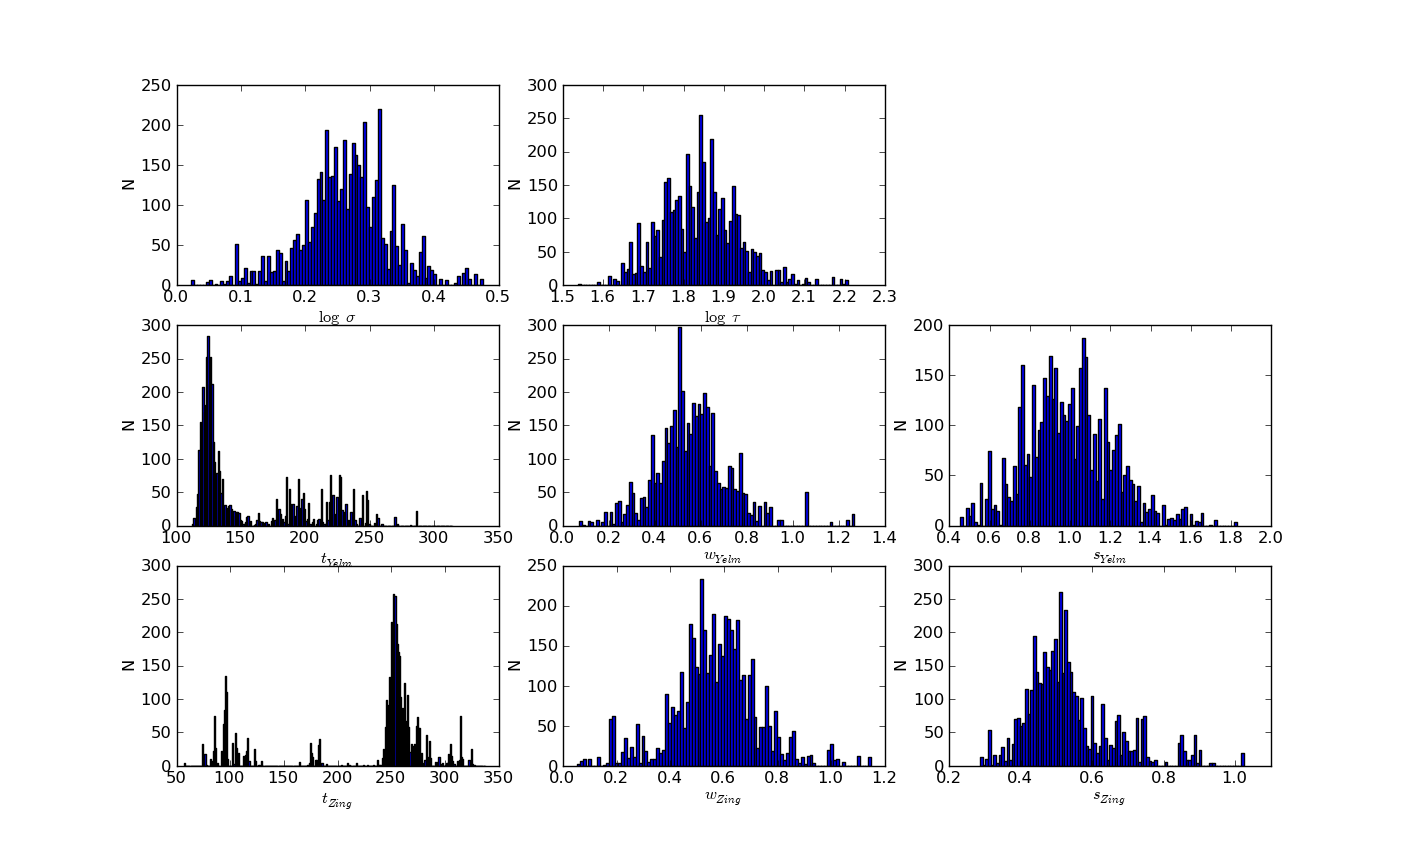
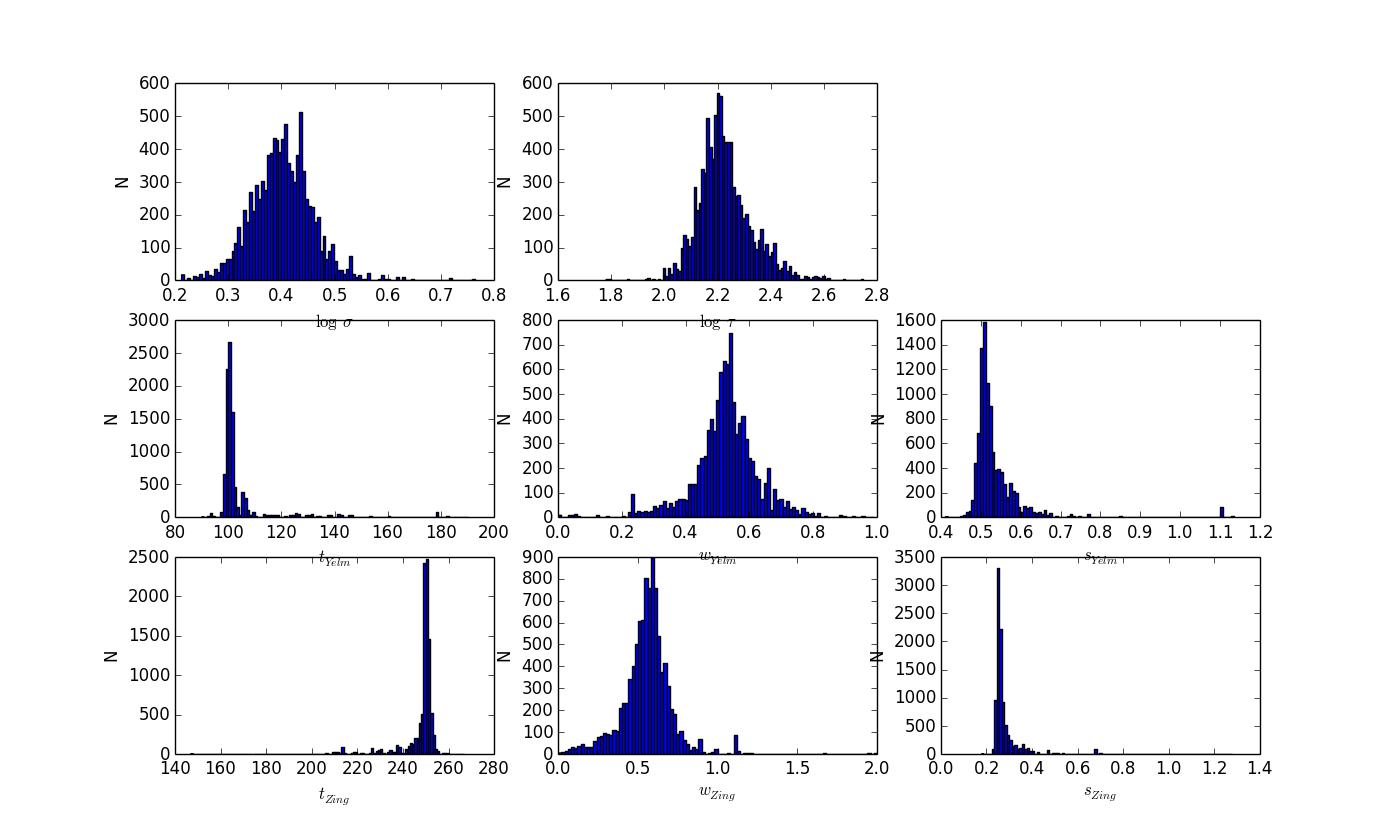
regenerated all the demo figures.

Changed region(s): [[0.0614, 0.0931, 0.9214, 0.9618]]

diff --git a/examples/demo.py b/examples/demo.py
@@ -1,4 +1,4 @@
-#Last-modified: 08 Dec 2013 03:28:24
+#Last-modified: 08 Dec 2013 15:48:26
 import numpy as np
 import matplotlib.pyplot as plt
 from javelin.predict import PredictSignal, PredictRmap, generateLine, generateError, PredictSpear
@@ -10,6 +10,8 @@ from javelin.lcmodel import Cont_Model, Rmap_Model, Pmap_Model
 """
 
 #************** PLEASE DO NOT EDIT THIS PART*****
+figext = "png"
+# figext = None
 # names of the true light curves
 names  = ["Continuum", "Yelm", "Zing", "YelmBand"]
 # dense sampling of the underlying signal
@@ -54,7 +56,7 @@ def getTrue(trufile, set_plot=False, mode="test"):
         zydata.save(trufile)
     if set_plot :
         print("plot true light curve signal")
-        zydata.plot(marker="None", ms=1.0, ls="-", lw=2)
+        zydata.plot(marker="None", ms=1.0, ls="-", lw=2, figout="signal", figext=figext)
     return(zydata)
 
 def generateTrueLC(covfunc="drw"):
@@ -190,9 +192,9 @@ def getMock(zydata, confile, topfile, doufile, phofile, set_plot=False, mode="te
         print("plot mock light curves for continuum, yelm, zing, and yelm band lines")
         _c, _yb = zydata_pho.split()
         zymock = zydata_dou + _yb
-        zymock.plot()
+        zymock.plot(figout="mocklc", figext=figext)
 
-def fitCon(confile, confchain, names=None, threads=1, set_plot=False, nwalkers=100, nburn=50, nchain=50, figext=None, mode="test") :
+def fitCon(confile, confchain, names=None, threads=1, set_plot=False, nwalkers=100, nburn=50, nchain=50, mode="test") :
     """ fit the continuum model.
     """
     if mode == "run" :
@@ -208,10 +210,10 @@ def fitCon(confile, confchain, names=None, threads=1, set_plot=False, nwalkers=1
         confchain = ".".join([confchain, "myrun"])
         cont.do_mcmc(nwalkers=nwalkers, nburn=nburn, nchain=nchain, fburn=None, fchain=confchain, threads=1)
     if set_plot :
-        cont.show_hist(bins=100, figext=figext)
+        cont.show_hist(bins=100, figout="mcmc0", figext=figext)
     return(cont.hpd)
 
-def fitLag(linfile, linfchain, conthpd, names=None, lagrange=[50, 300], lagbinsize=1, threads=1, set_plot=False, nwalkers=100, nburn=50, nchain=50, figext=None, mode="test") :
+def fitLag(linfile, linfchain, conthpd, names=None, lagrange=[50, 300], lagbinsize=1, threads=1, set_plot=False, nwalkers=100, nburn=50, nchain=50, mode="test") :
     """ fit the Rmap model.
     """
     if mode == "run" :
@@ -222,8 +224,7 @@ def fitLag(linfile, linfchain, conthpd, names=None, lagrange=[50, 300], lagbinsi
         if zydata.nlc == 2 :
             print(rmap([np.log(2.), np.log(100), lagy, widy, scaley ]))
         elif zydata.nlc == 3 :
-            print(rmap([np.log(2.), np.log(100), lagy, widy, scaley, lagz, widz,
-                scalez]))
+            print(rmap([np.log(2.), np.log(100), lagy, widy, scaley, lagz, widz, scalez]))
         return(None)
     elif mode == "show" :
         rmap.load_chain(linfchain, set_verbose=False)
@@ -238,10 +239,14 @@ def fitLag(linfile, linfchain, conthpd, names=None, lagrange=[50, 300], lagbinsi
     if set_plot :
         rmap.break_chain([lagrange,]*(zydata.nlc-1))
         rmap.get_hpd()
-        rmap.show_hist(bins=100, lagbinsize=lagbinsize, figext=figext)
+        if zydata.nlc == 2 :
+            figout = "mcmc1"
+        else :
+            figout = "mcmc2"
+        rmap.show_hist(bins=100, lagbinsize=lagbinsize, figout=figout, figext=figext)
     return(rmap.hpd)
 
-def fitPmap(phofile, phofchain, conthpd, names=None, lagrange=[50, 300], lagbinsize=1, threads=1, set_plot=False, nwalkers=100, nburn=50, nchain=50, figext=None, mode="test") :
+def fitPmap(phofile, phofchain, conthpd, names=None, lagrange=[50, 300], lagbinsize=1, threads=1, set_plot=False, nwalkers=100, nburn=50, nchain=50,mode="test") :
     """ fit the Pmap model.
     """
     if mode == "run" :
@@ -262,7 +267,7 @@ def fitPmap(phofile, phofchain, conthpd, names=None, lagrange=[50, 300], lagbins
     if set_plot :
         pmap.break_chain([lagrange,])
         pmap.get_hpd()
-        pmap.show_hist(bins=100, lagbinsize=lagbinsize, figext=figext)
+        pmap.show_hist(bins=100, lagbinsize=lagbinsize, figout="mcmc3", figext=figext)
     return(pmap.hpd)
 
 def showfit(linhpd, linfile, names=None, set_plot=False, mode="test") :
@@ -277,10 +282,19 @@ def showfit(linhpd, linfile, names=None, set_plot=False, mode="test") :
         zypred = rmap.do_pred(linhpd[1,:])
         zypred.names = names
     if set_plot :
-        zypred.plot(set_pred=True, obs=zydata)
+        zypred.plot(set_pred=True, obs=zydata, figout="prediction", figext=figext)
 
 def demo(mode) :
     """ Demonstrate the main functionalities of JAVELIN.
+
+    Parameters
+    ----------
+
+    mode: string
+        "test" : just go through some likelihood calculation to make sure JAVELIN is correctly installed.
+        "show" : load example light curves and chains and show plots.
+        "run" : regenerate all the light curves and chains.
+
     """
     from sys import platform as _platform
     if True :
@@ -340,10 +354,7 @@ def demo(mode) :
     # fit pmap
     phohpd = fitPmap(phofile, phofchain, conthpd, names=[names[0], names[3]], lagrange=[0, 150], lagbinsize=0.2, threads=threads, nwalkers=100, nburn=100, nchain=100,set_plot=set_plot, mode=mode)
 
-
 if __name__ == "__main__":    
     import sys
-    # mode = sys.argv[1]
-    # run demo.
-    mode = "show"
+    mode = sys.argv[1]
     demo(mode)
